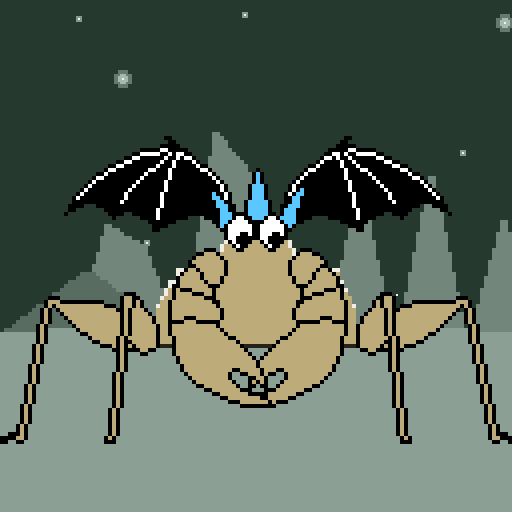
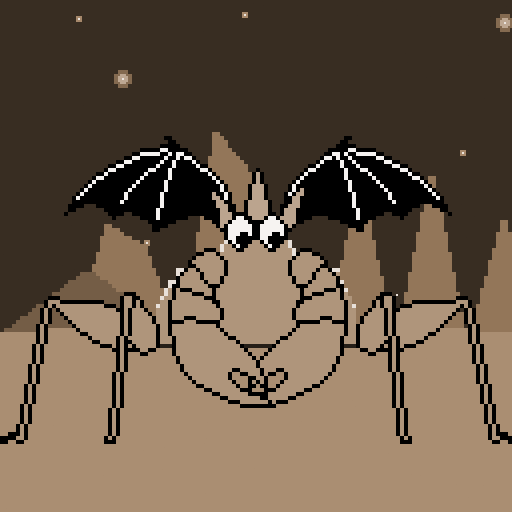
Finishing touches - Flesh out home page - Add sepia tone to images - More code cleanup

diff --git a/src/App.js b/src/App.js
@@ -21,7 +21,6 @@ function App() {
 
 	// Callback function for the Login component to give us access to the web3 instance and contract functions
 	const OnLogin = function(param){
-		console.log('setting logged state')
 		let { web3, accounts, contract } = param;
 		if(web3 && accounts && accounts.length && contract){
 			setWeb3Props({ web3, accounts, contract });
@@ -38,15 +37,19 @@ function App() {
 			<Router>
 				<header>
 					<Link to="/">
-							<svg id="logo" aria-hidden="true" focusable="false" className="greenzeta" role="img" xmlns="http://www.w3.org/2000/svg" viewBox="0 0 500 100">
+							<svg id="logo" aria-hidden="true" focusable="false" className="greenzeta" role="img" xmlns="http://www.w3.org/2000/svg" viewBox="0 0 625 105">
 							<g>
-								<path fill="currentColor" d="M82.476,13.452v9.466H15.161v27.814H69.27v9.583H15.161V88.13h67.314v9.466H5.694V13.452H82.476z"/>
-								<path fill="currentColor" d="M150.491,29.813h12.504L134.714,63.12l28.398,34.476h-12.621l-22.088-27.113l-21.971,27.113H93.811l28.282-34.476L93.811,29.813h12.622l21.971,25.71L150.491,29.813z"/>
-								<path fill="currentColor" d="M189.406,29.813h40.669c3.974,0,7.343,1.384,10.109,4.149c2.765,2.767,4.148,6.097,4.148,9.992v39.501c0,3.896-1.384,7.228-4.148,9.992c-2.767,2.767-6.136,4.148-10.109,4.148h-40.669c-3.897,0-7.228-1.382-9.992-4.148c-2.767-2.765-4.149-6.096-4.149-9.992V43.954c0-3.895,1.383-7.226,4.149-9.992C182.179,31.197,185.509,29.813,189.406,29.813zM230.075,39.396h-40.669c-1.247,0-2.319,0.449-3.214,1.344c-0.896,0.896-1.344,1.969-1.344,3.214v39.501c0,1.247,0.447,2.319,1.344,3.214c0.895,0.896,1.967,1.344,3.214,1.344h40.669c1.245,0,2.317-0.447,3.214-1.344c0.895-0.895,1.344-1.967,1.344-3.214V43.954c0-1.245-0.449-2.317-1.344-3.214C232.393,39.845,231.32,39.396,230.075,39.396z"/>
-								<path fill="currentColor" d="M336.071,51.551l0.469,1.986c3.115,2.883,4.674,6.351,4.674,10.401v19.633c0,3.897-1.363,7.208-4.09,9.935c-2.729,2.728-6.039,4.09-9.934,4.09h-70.119V13.452h66.496c3.895,0,7.205,1.364,9.934,4.09c2.727,2.729,4.09,6.039,4.09,9.934v17.88C337.591,47.46,337.083,49.525,336.071,51.551z M323.567,22.918h-52.473c-1.248,0-2.32,0.449-3.215,1.344c-0.896,0.896-1.344,1.968-1.344,3.214v17.88c0,1.247,0.447,2.319,1.344,3.214c0.895,0.896,1.967,1.344,3.215,1.344h52.473c1.246,0,2.297-0.447,3.156-1.344c0.855-0.895,1.285-1.967,1.285-3.214v-17.88c0-1.246-0.43-2.317-1.285-3.214C325.864,23.367,324.813,22.918,323.567,22.918z M331.749,83.571V63.938c0-1.246-0.449-2.317-1.346-3.214c-0.896-0.896-1.967-1.344-3.213-1.344h-56.096c-1.248,0-2.32,0.448-3.215,1.344c-0.896,0.896-1.344,1.968-1.344,3.214v19.633c0,1.248,0.447,2.319,1.344,3.214c0.895,0.897,1.967,1.345,3.215,1.345h56.096c1.246,0,2.316-0.447,3.213-1.345C331.3,85.891,331.749,84.819,331.749,83.571z"/>
-								<path fill="currentColor" d="M353.483,7.608h9.582v9.583h-9.582V7.608z M353.483,97.596V29.813h9.582v67.783H353.483z"/>
-								<path fill="currentColor" d="M416.823,39.396h-29.332v44.059c0,1.247,0.447,2.319,1.344,3.214c0.895,0.896,1.967,1.344,3.213,1.344h24.775v9.583h-24.775c-3.973,0-7.324-1.382-10.051-4.148c-2.729-2.765-4.09-6.096-4.09-9.992V7.608h9.584v22.205h29.332V39.396z"/>
-								<path fill="currentColor" d="M494.306,43.954v0.935h-9.701v-0.935c0-1.245-0.449-2.317-1.344-3.214c-0.896-0.895-1.969-1.344-3.213-1.344h-40.67c-1.248,0-2.318,0.449-3.215,1.344c-0.896,0.896-1.344,1.969-1.344,3.214v10.401c0,1.247,0.447,2.318,1.344,3.214c0.896,0.896,1.967,1.344,3.215,1.344h40.67c3.973,0,7.342,1.384,10.109,4.148c2.764,2.767,4.148,6.098,4.148,9.992v10.401c0,3.896-1.385,7.228-4.148,9.992c-2.768,2.767-6.137,4.148-10.109,4.148h-40.67c-3.896,0-7.227-1.382-9.992-4.148c-2.766-2.765-4.148-6.096-4.148-9.992V82.52h9.582v0.936c0,1.247,0.447,2.319,1.344,3.214c0.896,0.896,1.967,1.344,3.215,1.344h40.67c1.244,0,2.316-0.447,3.213-1.344c0.895-0.895,1.344-1.967,1.344-3.214V73.054c0-1.245-0.449-2.317-1.344-3.214c-0.896-0.895-1.969-1.344-3.213-1.344h-40.67c-3.896,0-7.227-1.383-9.992-4.148c-2.766-2.765-4.148-6.096-4.148-9.992V43.954c0-3.895,1.383-7.226,4.148-9.992c2.766-2.765,6.096-4.149,9.992-4.149h40.67c3.973,0,7.342,1.384,10.109,4.149C492.921,36.729,494.306,40.059,494.306,43.954z"/>
+								<path fill="#FFFFFF" d="M208.809,13.35v9.466h-67.314V50.63h54.108v9.583h-54.108v27.814h67.314v9.466h-76.781V13.35H208.809z"/>
+								<path fill="#FFFFFF" d="M276.824,29.711h12.504l-28.281,33.307l28.398,34.476h-12.621L254.736,70.38l-21.971,27.113h-12.622l28.282-34.476l-28.282-33.307h12.622l21.971,25.71L276.824,29.711z"/>
+								<path fill="#FFFFFF" d="M315.739,29.711h40.669c3.974,0,7.343,1.384,10.109,4.149c2.765,2.767,4.148,6.097,4.148,9.992v39.501c0,3.896-1.384,7.228-4.148,9.992c-2.767,2.767-6.136,4.148-10.109,4.148h-40.669c-3.897,0-7.228-1.382-9.992-4.148c-2.767-2.765-4.149-6.096-4.149-9.992V43.852c0-3.895,1.383-7.226,4.149-9.992C308.512,31.095,311.842,29.711,315.739,29.711zM356.408,39.294h-40.669c-1.247,0-2.319,0.449-3.214,1.344c-0.896,0.896-1.344,1.969-1.344,3.214v39.501c0,1.247,0.447,2.319,1.344,3.214c0.895,0.896,1.967,1.344,3.214,1.344h40.669c1.245,0,2.317-0.447,3.214-1.344c0.895-0.895,1.344-1.967,1.344-3.214V43.852c0-1.245-0.449-2.317-1.344-3.214C358.726,39.743,357.653,39.294,356.408,39.294z"/>
+								<path fill="#FFFFFF" d="M462.404,51.449l0.469,1.986c3.115,2.883,4.674,6.351,4.674,10.401v19.633c0,3.897-1.363,7.208-4.09,9.935c-2.729,2.728-6.039,4.09-9.934,4.09h-70.119V13.35H449.9c3.895,0,7.205,1.364,9.934,4.09c2.727,2.729,4.09,6.039,4.09,9.934v17.88C463.924,47.358,463.416,49.423,462.404,51.449z M449.9,22.816h-52.473c-1.248,0-2.32,0.449-3.215,1.344c-0.896,0.896-1.344,1.968-1.344,3.214v17.88c0,1.247,0.447,2.319,1.344,3.214c0.895,0.896,1.967,1.344,3.215,1.344H449.9c1.246,0,2.297-0.447,3.156-1.344c0.855-0.895,1.285-1.967,1.285-3.214v-17.88c0-1.246-0.43-2.317-1.285-3.214C452.197,23.265,451.146,22.816,449.9,22.816z M458.082,83.469V63.836c0-1.246-0.449-2.317-1.346-3.214c-0.896-0.896-1.967-1.344-3.213-1.344h-56.096c-1.248,0-2.32,0.448-3.215,1.344c-0.896,0.896-1.344,1.968-1.344,3.214v19.633c0,1.248,0.447,2.319,1.344,3.214c0.895,0.897,1.967,1.345,3.215,1.345h56.096c1.246,0,2.316-0.447,3.213-1.345C457.633,85.789,458.082,84.717,458.082,83.469z"/>
+								<path fill="#FFFFFF" d="M479.816,7.506h9.582v9.583h-9.582V7.506z M479.816,97.494V29.711h9.582v67.783H479.816z"/>
+								<path fill="#FFFFFF" d="M543.156,39.294h-29.332v44.059c0,1.247,0.447,2.319,1.344,3.214c0.895,0.896,1.967,1.344,3.213,1.344h24.775v9.583h-24.775c-3.973,0-7.324-1.382-10.051-4.148c-2.729-2.765-4.09-6.096-4.09-9.992V7.506h9.584v22.205h29.332V39.294z"/>
+								<path fill="#FFFFFF" d="M620.639,43.852v0.935h-9.701v-0.935c0-1.245-0.449-2.317-1.344-3.214c-0.896-0.895-1.969-1.344-3.213-1.344h-40.67c-1.248,0-2.318,0.449-3.215,1.344c-0.896,0.896-1.344,1.969-1.344,3.214v10.401c0,1.247,0.447,2.318,1.344,3.214c0.896,0.896,1.967,1.344,3.215,1.344h40.67c3.973,0,7.342,1.384,10.109,4.148c2.764,2.767,4.148,6.098,4.148,9.992v10.401c0,3.896-1.385,7.228-4.148,9.992c-2.768,2.767-6.137,4.148-10.109,4.148h-40.67c-3.896,0-7.227-1.382-9.992-4.148c-2.766-2.765-4.148-6.096-4.148-9.992v-0.936h9.582v0.936c0,1.247,0.447,2.319,1.344,3.214c0.896,0.896,1.967,1.344,3.215,1.344h40.67c1.244,0,2.316-0.447,3.213-1.344c0.895-0.895,1.344-1.967,1.344-3.214V72.952c0-1.245-0.449-2.317-1.344-3.214c-0.896-0.895-1.969-1.344-3.213-1.344h-40.67c-3.896,0-7.227-1.383-9.992-4.148c-2.766-2.765-4.148-6.096-4.148-9.992V43.852c0-3.895,1.383-7.226,4.148-9.992c2.766-2.765,6.096-4.149,9.992-4.149h40.67c3.973,0,7.342,1.384,10.109,4.149C619.254,36.626,620.639,39.957,620.639,43.852z"/>
+							</g>
+							<g>
+								<path fill="#EE2222" d="M26.795,95.523c-0.113,3.104-2.083,5.361-5.905,6.771c-3.526,1.354-7.066,1.59-10.623,0.713c-3.941-0.879-5.955-2.779-6.038-5.693C2.976,93.078,3.494,83.267,5.78,67.88c3.394-23.072,7.946-39.959,13.656-50.666c1.489-2.746,2.858-4.601,4.104-5.567c1.246-0.965,2.708-1.913,4.385-2.844c1.676-0.93,3.433-1.836,5.273-2.72c3.678-1.767,7.212-3.181,10.6-4.238c3.388-1.056,6.574-1.229,9.561-0.516c2.984,0.713,5.466,2.12,7.439,4.218c1.971,2.099,3.447,4.733,4.428,7.904c0.978,3.17,1.5,6.582,1.566,10.231c0.064,3.65-0.346,7.429-1.235,11.333c-0.888,3.907-2.232,7.646-4.031,11.221c-3.932,7.83-9.213,13.404-15.839,16.724l1.474,1.691c1.246,1.311,2.726,2.727,4.438,4.258s3.431,3.1,5.159,4.701c1.727,1.605,3.324,3.234,4.789,4.889c1.466,1.654,2.612,3.252,3.441,4.793c1.874,3.428,1.438,6.246-1.31,8.457c-2.181,1.947-4.049,2.682-5.602,2.203c-0.667-0.262-1.349-0.615-2.049-1.064c-0.703-0.445-1.609-0.758-2.72-0.936c-4.16,2.088-7.721,1.598-10.683-1.471c-1.835-1.971-3.299-3.816-4.391-5.541c-1.095-1.723-2.021-3.166-2.777-4.338c-1.857-2.506-3.83-4.604-5.919-6.293c-0.445,2.164-0.895,4.906-1.353,8.23c-0.528,4.188-1.177,8.547-1.947,13.086L26.795,95.523z M37.204,26.266c-0.818,3.469-1.369,5.885-1.652,7.248c-0.571,2.729-1.202,5.739-1.896,9.028c0.082,1.682,0.112,2.871,0.089,3.569l1.271-1.857l1.733-1.249c1.201-0.995,2.305-1.895,3.311-2.701c1.005-0.805,1.872-1.738,2.599-2.799c1.393-2.035,2.36-5.106,2.902-9.217c-0.139-0.745-0.149-1.514-0.027-2.308c0.121-0.793,0.15-1.57,0.085-2.329c-0.01-1.693-0.896-2.723-2.659-3.088c-1.518,0.13-3.15,1.708-4.897,4.734C37.714,25.901,37.428,26.224,37.204,26.266z"/>
+								<path fill="#EE2222" d="M108.117,62.851c-1.291,0.934-2.571,1.715-3.842,2.336c-1.271,0.627-2.766,1.291-4.485,1.996c-4.511,1.848-7.797,3.039-9.854,3.578c0.363,0.705,1.648,1.389,3.854,2.055c1.383-0.025,2.815-0.506,4.299-1.439c1.482-0.932,3.047-1.842,4.694-2.729c1.645-0.887,3.3-1.523,4.963-1.91c1.662-0.389,3.362-0.053,5.104,1.01c0.846,1.23,1.476,1.92,1.891,2.074c0.414,0.154,0.77,0.203,1.068,0.146c0.297-0.055,0.653-0.004,1.067,0.148c0.414,0.152,1.115,0.91,2.103,2.268c0.986,1.357,1.063,2.807,0.235,4.35s-2.272,3.008-4.326,4.396c-2.053,1.385-4.515,2.654-7.383,3.811c-2.868,1.15-5.771,2.117-8.709,2.898c-6.608,1.775-11.808,2.207-15.602,1.299c-5.387-0.768-9.298-3.541-11.735-8.33c-3.19-6.342-3.573-14.367-1.148-24.073c1.081-4.518,3.189-9.538,6.319-15.06c2.721-4.825,6.068-8.574,10.041-11.245c4.585-3.093,9.613-5.074,15.08-5.943c5.838-0.937,10.335,0.842,13.489,5.341c1.605,2.4,2.512,6.008,2.719,10.826c-0.051,6.333-0.807,10.946-2.269,13.84C114.212,57.315,111.688,60.102,108.117,62.851zM98.333,46.407c-4.103-0.081-6.776,2.732-8.021,8.439c-0.405,1.539-0.648,3.127-0.728,4.762c2.586-0.175,5.004-2.093,7.251-5.752c0.805-1.46,1.347-2.891,1.625-4.292C98.737,48.163,98.696,47.111,98.333,46.407z"/>
 							</g>
 							</svg>
 					</Link>

diff --git a/src/pages/MyTokens.jsx b/src/pages/MyTokens.jsx
@@ -6,14 +6,14 @@ export default function MyTokens(props) {
 	const [tokenURIs, setTokenURIs] = useState([]);
 
 	// Populate userTokens with an array of token IDs belonging to the curent wallet address.
-	const getUserTokens = async () => {
+	const GetUserTokens = async () => {
 		if(!props || !props.contract) return;
 		const userTokens = await props.contract.methods.tokensOfOwner(props.address).call();
 		setUserTokens(userTokens);
 	};
 
 	// Populate the setTokenURIs variable with token URIs belonging to the curent wallet address.
-	const getTokenURIs = async (userTokens) => {
+	const GetTokenURIs = async (userTokens) => {
 		if(!userTokens || !userTokens.length) return;
 		let tokens = [];
 		// Taking advantage of the fact that token IDs are an auto-incrementing integer starting with 1.
@@ -44,10 +44,10 @@ export default function MyTokens(props) {
 	if(!props.contract) return (<div className="page error">Contract Not Available</div>);
 
 	// Get all token IDs associated with the wallet address when the component mounts.
-	if(!userTokens) getUserTokens();
+	if(!userTokens) GetUserTokens();
 
 	// Set up the list of available token URIs when the component mounts.
-	if(userTokens && !tokenURIs.length) getTokenURIs(userTokens);
+	if(userTokens && !tokenURIs.length) GetTokenURIs(userTokens);
 
 	// Display the personal token gallery
 	return (

diff --git a/src/pages/Gallery.jsx b/src/pages/Gallery.jsx
@@ -6,7 +6,7 @@ export default function Gallery(props) {
 	const [tokenURIs, setTokenURIs] = useState([]);
 
 	// Get the total number of minted tokens in the contract
-	const getTotalSupply = async () => {
+	const GetTotalSupply = async () => {
 		if(!props || !props.contract) return;
 		const totalSupply = await props.contract.methods.totalSupply().call();
 		// totalSupply returns a string
@@ -14,7 +14,7 @@ export default function Gallery(props) {
 	};
 
 	// Populate the setTokenURIs variable with tokens that are minted.
-	const getTokenURIs = async (totalSupply) => {
+	const GetTokenURIs = async (totalSupply) => {
 		if(!totalSupply) return;
 		let tokens = [];
 		// Taking advantage of the fact that token IDs are an auto-incrementing integer starting with 1.
@@ -45,10 +45,10 @@ export default function Gallery(props) {
 	if(!props.contract) return (<div className="page error">Contract Not Available</div>);
 	
 	// Attempt to set totalSupply (total number of tokens stored in the contract).
-	if(!totalSupply) getTotalSupply();
+	if(!totalSupply) GetTotalSupply();
 
 	// Set up the list of available token URIs when the component mounts.
-	if(totalSupply && !tokenURIs.length) getTokenURIs(totalSupply);
+	if(totalSupply && !tokenURIs.length) GetTokenURIs(totalSupply);
 
 	// Display the token gallery
 	return (

diff --git a/src/pages/Home.jsx b/src/pages/Home.jsx
@@ -2,6 +2,10 @@ import React from "react";
 
 export default function Home() {
 	return (
-		<div className="page home">This is the home page</div>
+		<div className="page home">
+			<h1>Gently Used NFTs Looking For A new Home</h1>
+			<p>Click the "Connect Wallet" Button above to access the minting page.</p>
+			<img src="hero.png" alt="Hero" width="100%" />
+		</div>
 	);
 }

diff --git a/public/index.html b/public/index.html
@@ -24,7 +24,7 @@
       work correctly both with client-side routing and a non-root public URL.
       Learn how to configure a non-root public URL by running `npm run build`.
     -->
-    <title>React App</title>
+    <title>ReExoBits Second Hand NFT Store</title>
   </head>
   <body>
     <noscript>You need to enable JavaScript to run this app.</noscript>
